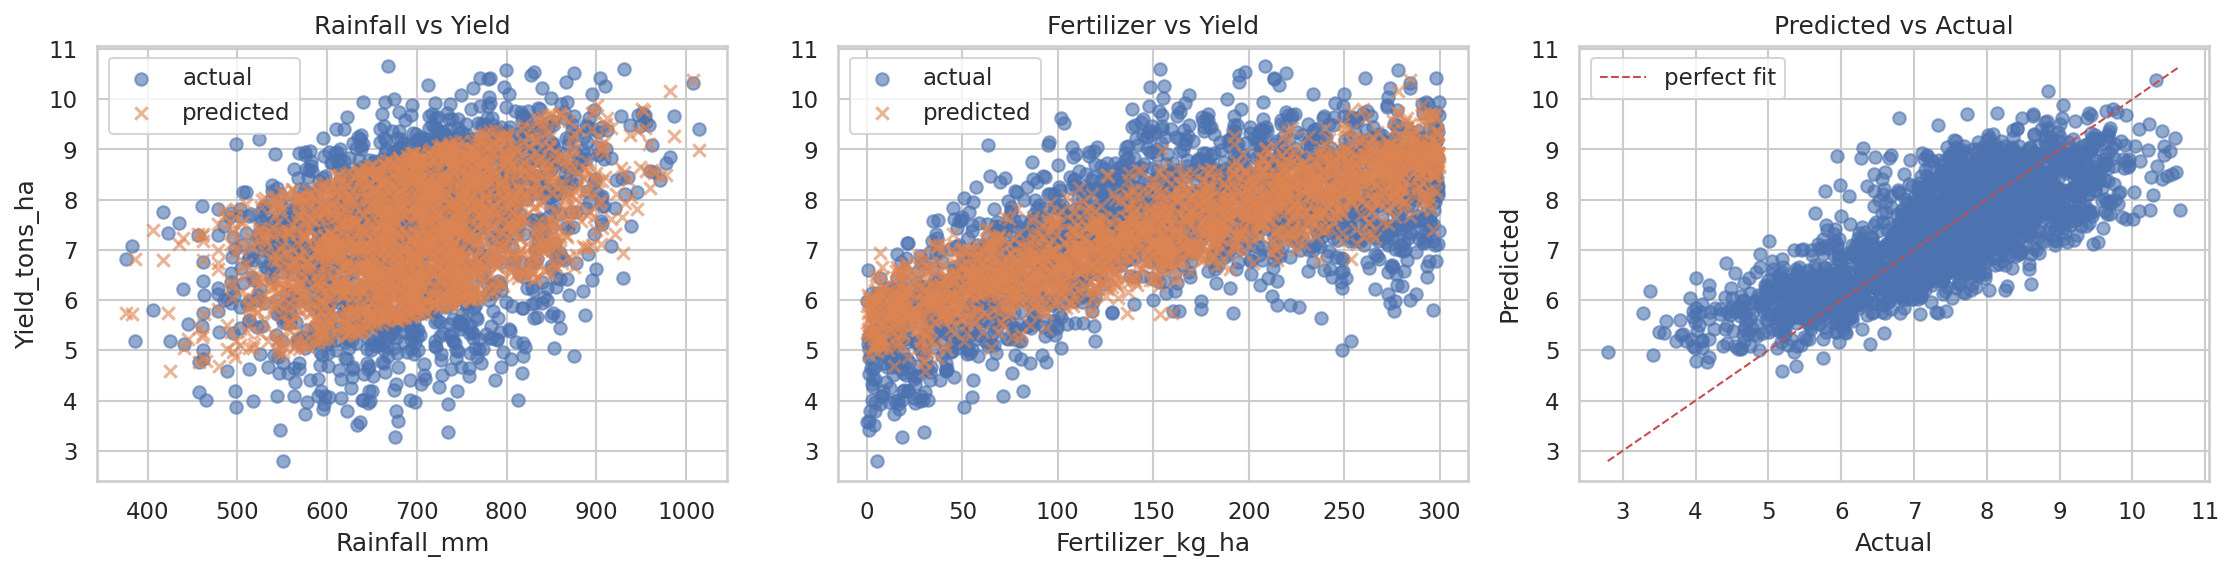
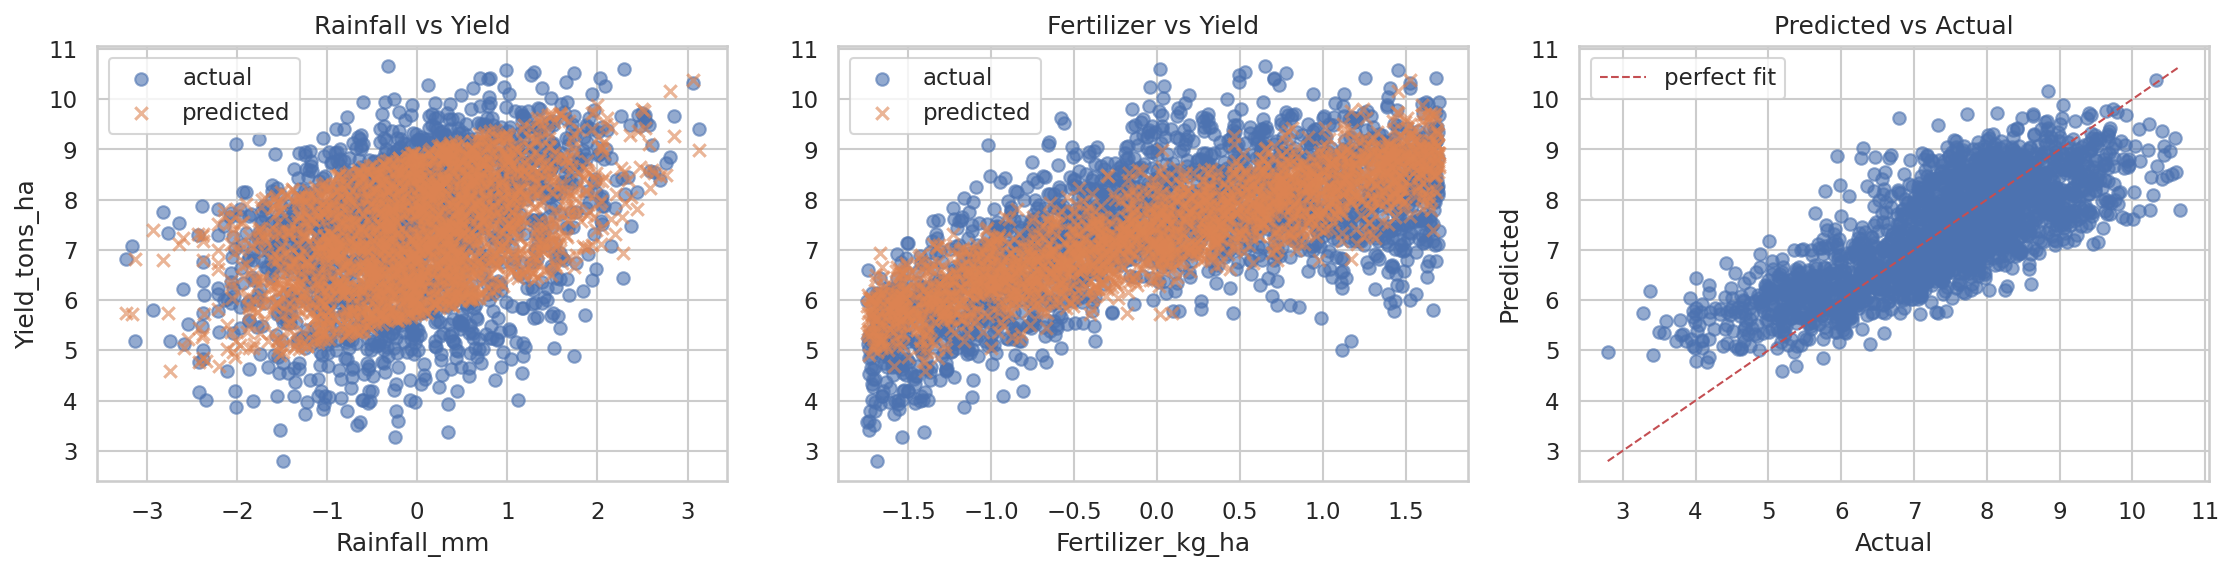
Add Stochastic Gradient Descent implementation

diff --git a/mlab/regression/_linear.py b/mlab/regression/_linear.py
@@ -1,4 +1,7 @@
+import math
+
 import numpy as np
+from numpy import dtype
 from numpy.typing import NDArray
 
 
@@ -34,8 +37,8 @@ class LinearRegressor:
         # Use instead Singular Value Decomposition approach - SVD splits any matrix X into three pieces X = U · Σ · Vᵀ
         # where V rotates the input space, Σ stretches/shrinks along each axis, U rotates the output space.
         # Rotation doesn't change the length of the vector, therefore no introduction of numerical error. Σ might introduce one.
-        # Then calculate w = (Xᵀ·X)⁻¹·Xᵀ·y where X = U·Σ·Vᵀ, which becomes simply w = V · Σ⁺ · Uᵀ · y.
-        # To invert Σ, zero out nearly zero values (0.0001 ≈ 0) -> pseudo-inverse Σ⁺.
+        # Then calculate w = (Xᵀ·X)⁻¹·Xᵀ·y where X = U·Σ·Vᵀ, which becomes simply w = V · Σ⁺ · Uᵀ · y
+        # To invert Σ, zero out nearly zero values (0.0001 ≈ 0) to avoid numerically instability -> pseudo-inverse Σ⁺.
         self.weights_, _, _, _ = np.linalg.lstsq(X_, y, rcond=None)
         return self
 
@@ -57,11 +60,15 @@ class LinearRegressor:
 
 
 class SGDRegression:
-    def __init__(self, learning_rate=0.01, n_iterations=1000, batch_size=32):
+    def __init__(self, learning_rate=0.01, epochs=1000, batch_size=32):
         self.weights_ = None
         self.bias_ = None
 
-    def fit(self, X, y):
+        self.learning_rate = learning_rate
+        self.epochs = epochs
+        self.batch_size = batch_size
+
+    def fit(self, X: NDArray[np.floating], y: NDArray[np.floating]):
         """
         Train the model using stochastic gradient descent.
 
@@ -69,9 +76,44 @@ class SGDRegression:
             X: numpy array of shape (n_samples, n_features)
             y: numpy array of shape (n_samples,)
         """
-        pass
+        if self.weights_ is None and self.bias_ is None:
+            self.weights_ = np.zeros((X.shape[1], 1), dtype=X.dtype)
+            self.bias_ = np.zeros((1, 1), dtype=X.dtype)
 
-    def predict(self, X):
+        rng = np.random.default_rng(seed=42)
+
+        epoch = 1
+        while self.epochs >= epoch:
+            indices = rng.permutation(X.shape[0])
+            X_shuffled = X[indices]
+            y_shuffled = y[indices]
+
+            num_batches = math.ceil(X_shuffled.shape[0] / self.batch_size)
+            batches = np.array_split(X_shuffled, num_batches)
+            y_batches = np.array_split(y_shuffled, num_batches)
+
+            epoch_loss = 0
+            for X_batch, y_batch in zip(batches, y_batches):
+                y_hat = self._predict(X_batch)
+                # Make same shape as y_hat: (32,) -> (32,1)
+                y_batch = y_batch.reshape(-1, 1)
+
+                epoch_loss += self._mse(y_batch, y_hat)
+
+                grad = self._mse_grad(y_batch, y_hat)
+                self.weights_ = self.weights_ - self.learning_rate * (X_batch.T @ grad)
+                self.bias_ = self.bias_ - self.learning_rate * np.mean(grad)
+
+            print(f"Epoch {epoch}/{self.epochs} | Loss: {epoch_loss / num_batches:.4f}")
+            epoch += 1
+
+        return self
+
+    def _predict(self, X: NDArray[np.floating]) -> NDArray[np.floating]:
+        """Returns predictions in 2D shape (n_samples, 1) for internal use."""
+        return X @ self.weights_ + self.bias_
+
+    def predict(self, X: NDArray[np.floating]):
         """
         Predict target values for the given input.
 
@@ -81,4 +123,10 @@ class SGDRegression:
         Returns:
             numpy array of shape (n_samples,)
         """
-        pass
+        return (X @ self.weights_ + self.bias_).flatten()
+
+    def _mse(self, y, y_hat):
+        return np.mean((y_hat - y) ** 2)
+
+    def _mse_grad(self, y, y_hat):
+        return 2 * (y_hat - y) / len(y)